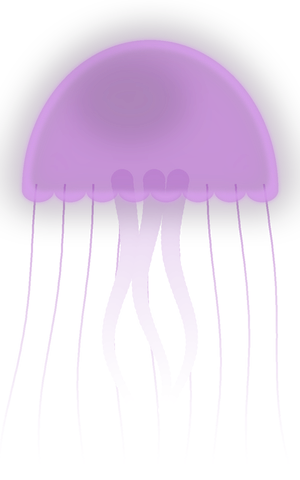
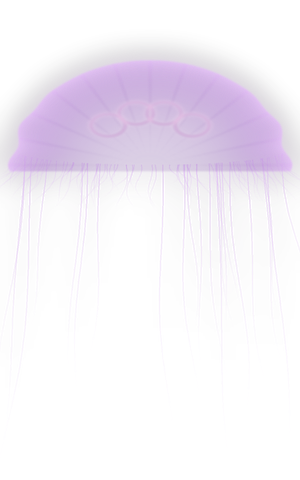
Splash: lifelike moon jellies (0.0.39)

diff --git a/tools/make_splash.py b/tools/make_splash.py
@@ -11,13 +11,14 @@ Writes into the add-on's skin media folder:
 The jellyfish positions below must match the animated screens (jellyelec-splash.xml in the
 add-on and image/skin/Startup.xml), so the still splash hands over to them seamlessly.
 
-Needs Pillow and the Inter font (Inter-Bold.otf, SIL Open Font License).
+Needs Pillow, NumPy and the Inter font (Inter-Bold.otf, SIL Open Font License).
 """
 
 import math
 import os
 
-from PIL import Image, ImageChops, ImageDraw, ImageFilter, ImageFont
+import numpy as np
+from PIL import Image, ImageDraw, ImageFilter, ImageFont
 
 MEDIA_DIR = os.path.join(os.path.dirname(__file__), "..", "script.jellyelec", "resources", "skins", "Default", "media")
 FONT_PATHS = ("/usr/share/fonts/opentype/inter/Inter-Bold.otf", "/usr/share/fonts/inter/Inter-Bold.otf")
@@ -39,79 +40,87 @@ SUPERSAMPLE = 3  # drawn larger, then scaled down, for smooth edges
 
 
 def draw_jellyfish():
-    """One translucent jellyfish: a glowing bell, frilled arms and trailing tentacles."""
+    """One translucent jellyfish, after a moon jelly.
+
+    A wide bell that's clear in the middle and bright at the edges, with faint channels
+    running to the rim and four glowing rings inside; a fringe of short tentacles round
+    the rim and a skirt of long, fine ones trailing below; and a soft glow over it all.
+    """
     width, height = (size * SUPERSAMPLE for size in JELLYFISH_SIZE)
     scale = SUPERSAMPLE
-    layer = Image.new("RGBA", (width, height), (0, 0, 0, 0))
-    draw = ImageDraw.Draw(layer)
+    random = np.random.default_rng(7)  # fixed, so the drawing is the same every time
 
-    bell_left, bell_right = 22 * scale, 278 * scale
-    bell_top, bell_bottom = 40 * scale, 190 * scale
-    centre_x = (bell_left + bell_right) / 2
+    centre_x = width / 2
+    half_width = 138 * scale
+    bell_top, rim_y = 60 * scale, 165 * scale
+    bell_height = rim_y - bell_top
 
-    # Tentacles: thin wavy lines from the bell's rim, fading out as they trail.
-    for index in range(9):
-        start_x = bell_left + (bell_right - bell_left) * (index + 0.5) / 9
-        phase = index * 0.9
-        points = []
-        for step in range(60):
-            t = step / 59
-            y = bell_bottom - 6 * scale + t * (height - bell_bottom - 10 * scale)
-            x = start_x + math.sin(t * 5 + phase) * 10 * scale * t + (start_x - centre_x) * 0.25 * t
-            points.append((x, y))
-        for step in range(len(points) - 1):
-            alpha = int(150 * (1 - step / len(points)) ** 1.4)
-            draw.line([points[step], points[step + 1]], fill=(*ACCENT, alpha), width=2 * scale)
+    # The bell, worked out pixel by pixel. r is 0 at the top-centre and 1 at the edge.
+    ys, xs = np.mgrid[0:height, 0:width].astype(np.float32)
+    dx = (xs - centre_x) / half_width
+    dy = (ys - rim_y) / bell_height
+    r = np.sqrt(dx ** 2 + dy ** 2)
+    angle = np.arctan2(dy, dx)  # -pi at the left of the rim, -pi/2 at the top, 0 at the right
+    # The rim isn't a clean line: it's gently scalloped, but only near the bottom edge;
+    # the top of the bell stays smooth.
+    near_rim = np.cos(angle) ** 6
+    edge = 1 + 0.03 * np.cos(angle * 16) * near_rim
+    inside = (r <= edge) & (ys <= rim_y + 6 * scale)
+    closeness = np.clip(r / edge, 0, 1)  # 0 at the top, 1 at the edge
 
-    # Oral arms: a few wider, frilled ribbons under the middle of the bell.
-    for offset, phase in ((-28, 0.0), (0, 1.7), (28, 3.1)):
-        for step in range(45):
-            t = step / 44
-            y = bell_bottom - 10 * scale + t * 230 * scale
-            x = centre_x + offset * scale + math.sin(t * 7 + phase) * 14 * scale * (0.3 + t)
-            radius = (11 - 7 * t) * scale
-            alpha = int(120 * (1 - t) ** 1.2)
-            draw.ellipse([x - radius, y - radius, x + radius, y + radius], fill=(200, 150, 220, alpha))
+    alpha = 40 + 175 * closeness ** 3
+    # Faint channels running from the top to the rim.
+    alpha += 25 * (np.cos(angle * 24) > 0.92) * closeness
+    deep, pale = np.array([105, 55, 150]), np.array([228, 190, 248])
+    colour = deep + (pale - deep) * (closeness[..., None] ** 2)
+    bell = np.zeros((height, width, 4), np.float32)
+    bell[..., :3] = colour
+    bell[..., 3] = np.where(inside, alpha, 0)
 
-    # The bell: a see-through dome with a scalloped rim. Its edge is brighter than its
-    # middle, as light catches the rim of a real jellyfish.
-    dome_box = [bell_left, bell_top, bell_right, bell_bottom * 2 - bell_top]
-    middle_y = (bell_top + bell_bottom * 2 - bell_top) / 2
-    scallops = 8
-    scallop_width = (bell_right - bell_left) / scallops
+    # Four rings inside the bell, in a clover, glowing pink.
+    ring_y = bell_top + bell_height * 0.62
+    for ring_x, ring_dy in ((-42, 0), (42, 0), (-14, -12), (14, -12)):
+        rx = (xs - (centre_x + ring_x * scale)) / (17 * scale)
+        ry = (ys - (ring_y + ring_dy * scale)) / (11 * scale)
+        band = np.exp(-((np.sqrt(rx ** 2 + ry ** 2) - 1) ** 2) / 0.04)
+        ring_alpha = band * 115 * inside
+        mix = ring_alpha / 255
+        bell[..., :3] = bell[..., :3] * (1 - mix[..., None]) + np.array([250, 175, 225]) * mix[..., None]
+        bell[..., 3] = np.maximum(bell[..., 3], ring_alpha)
 
-    def bell_shape(fill):
-        shape = Image.new("RGBA", (width, height), (0, 0, 0, 0))
-        shape_draw = ImageDraw.Draw(shape)
-        shape_draw.pieslice(dome_box, 180, 360, fill=fill)
-        for index in range(scallops):
-            left = bell_left + index * scallop_width
-            shape_draw.ellipse([left, middle_y - 12 * scale, left + scallop_width, middle_y + 12 * scale], fill=fill)
-        return shape
+    bell_image = Image.fromarray(np.clip(bell, 0, 255).astype(np.uint8), "RGBA")
+    bell_image = bell_image.filter(ImageFilter.GaussianBlur(0.8 * scale))
 
-    bell = bell_shape((*ACCENT, 105))
-    # The rim: the shape's outline, found by taking away a shrunken copy of the shape.
-    outline = bell_shape((*ACCENT, 255)).getchannel("A")
-    interior = outline.filter(ImageFilter.GaussianBlur(10 * scale)).point(lambda a: 255 if a > 200 else 0)
-    rim_alpha = ImageChops.subtract(outline, interior).filter(ImageFilter.GaussianBlur(2 * scale))
-    rim = Image.new("RGBA", (width, height), (215, 160, 235, 0))
-    rim.putalpha(rim_alpha.point(lambda a: int(a * 0.85)))
-    bell = Image.alpha_composite(bell, rim)
+    # Tentacles: a fringe of short ones round the rim, and long, fine ones trailing below.
+    tentacles = Image.new("RGBA", (width, height), (0, 0, 0, 0))
+    for count, shortest, longest, base_alpha in ((70, 0.06, 0.16, 120), (22, 0.45, 1.0, 150)):
+        for _ in range(count):
+            across = random.uniform(-0.97, 0.97)
+            start_x = centre_x + across * half_width
+            start_y = rim_y - (1 - (1 - across ** 2) ** 0.5) * bell_height * 0.15
+            length = random.uniform(shortest, longest) * (height - rim_y)
+            phase, sway = random.uniform(0, 6.3), random.uniform(4, 10) * scale
+            strand = Image.new("RGBA", (width, height), (0, 0, 0, 0))
+            strand_draw = ImageDraw.Draw(strand)
+            previous = (start_x, start_y)
+            for step in range(1, 50):
+                t = step / 49
+                point = (
+                    start_x + across * 30 * scale * t ** 1.4 + math.sin(t * 5 + phase) * sway * t,
+                    start_y + t * length,
+                )
+                fade = int(base_alpha * (1 - t) ** 1.3)
+                strand_draw.line([previous, point], fill=(222, 185, 245, fade), width=max(1, int(1.2 * scale)))
+                previous = point
+            tentacles = Image.alpha_composite(tentacles, strand)
 
-    # A soft highlight near the top, so the bell looks rounded and lit from above.
-    highlight = Image.new("RGBA", (width, height), (0, 0, 0, 0))
-    ImageDraw.Draw(highlight).ellipse(
-        [centre_x - 70 * scale, bell_top + 25 * scale, centre_x + 30 * scale, bell_top + 95 * scale],
-        fill=(255, 255, 255, 110),
-    )
-    highlight = highlight.filter(ImageFilter.GaussianBlur(14 * scale))
-    bell = Image.alpha_composite(bell, Image.composite(highlight, Image.new("RGBA", bell.size), bell))
+    jellyfish = Image.alpha_composite(tentacles, bell_image)
 
-    # A glow around the whole bell.
-    glow = bell.filter(ImageFilter.GaussianBlur(18 * scale))
-    layer = Image.alpha_composite(layer, glow)
-    layer = Image.alpha_composite(layer, bell)
-    return layer.resize(JELLYFISH_SIZE, Image.LANCZOS)
+    # A soft bioluminescent glow over the whole animal.
+    glow = jellyfish.filter(ImageFilter.GaussianBlur(14 * scale))
+    glow.putalpha(glow.getchannel("A").point(lambda a: int(a * 0.7)))
+    jellyfish = Image.alpha_composite(glow, jellyfish)
+    return jellyfish.resize(JELLYFISH_SIZE, Image.LANCZOS)
 
 
 def draw_wordmark():
